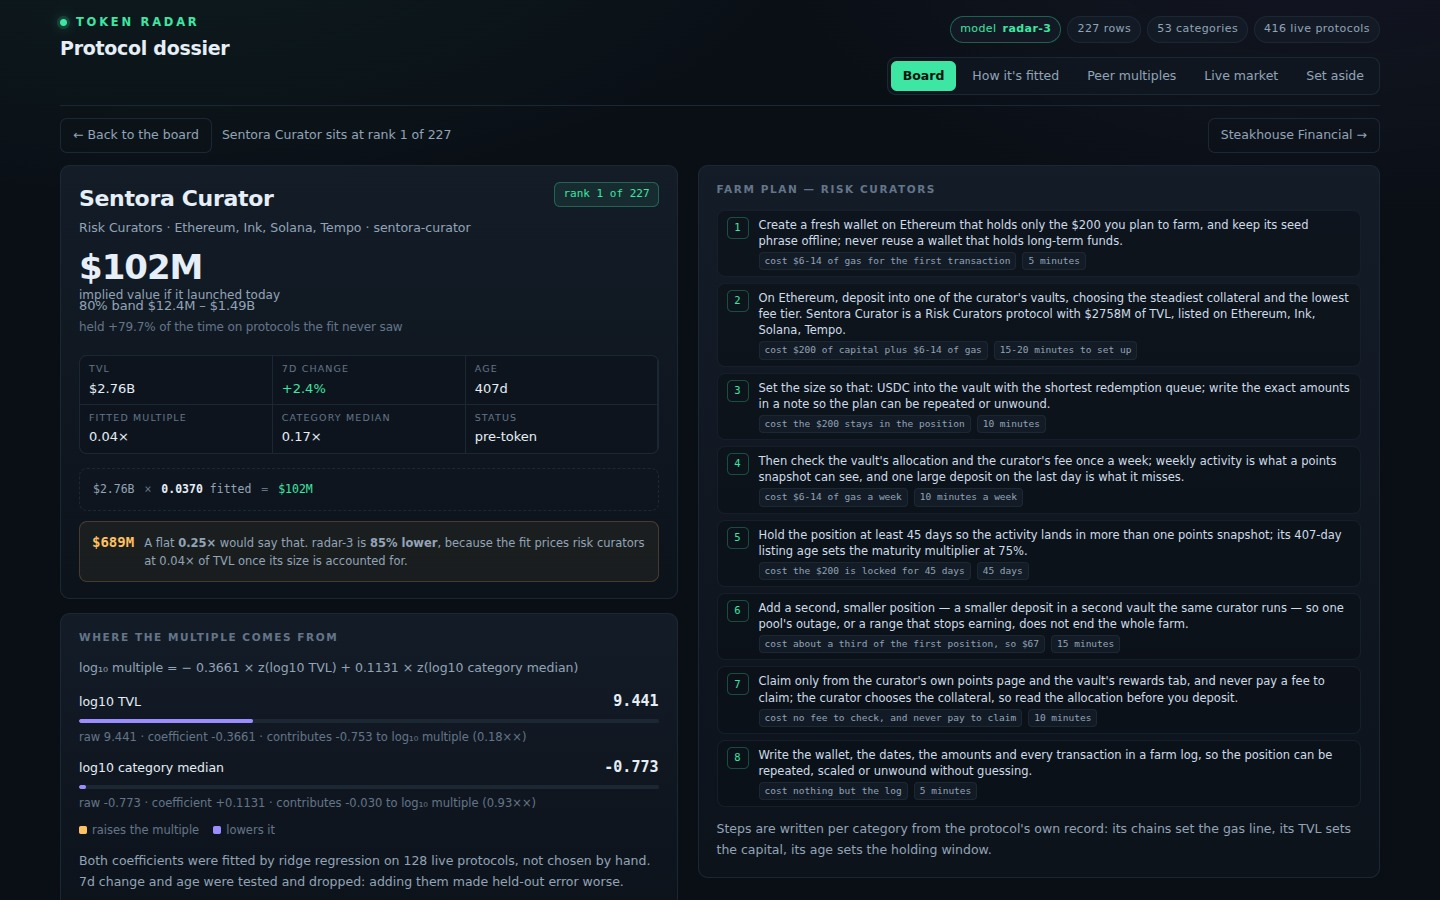
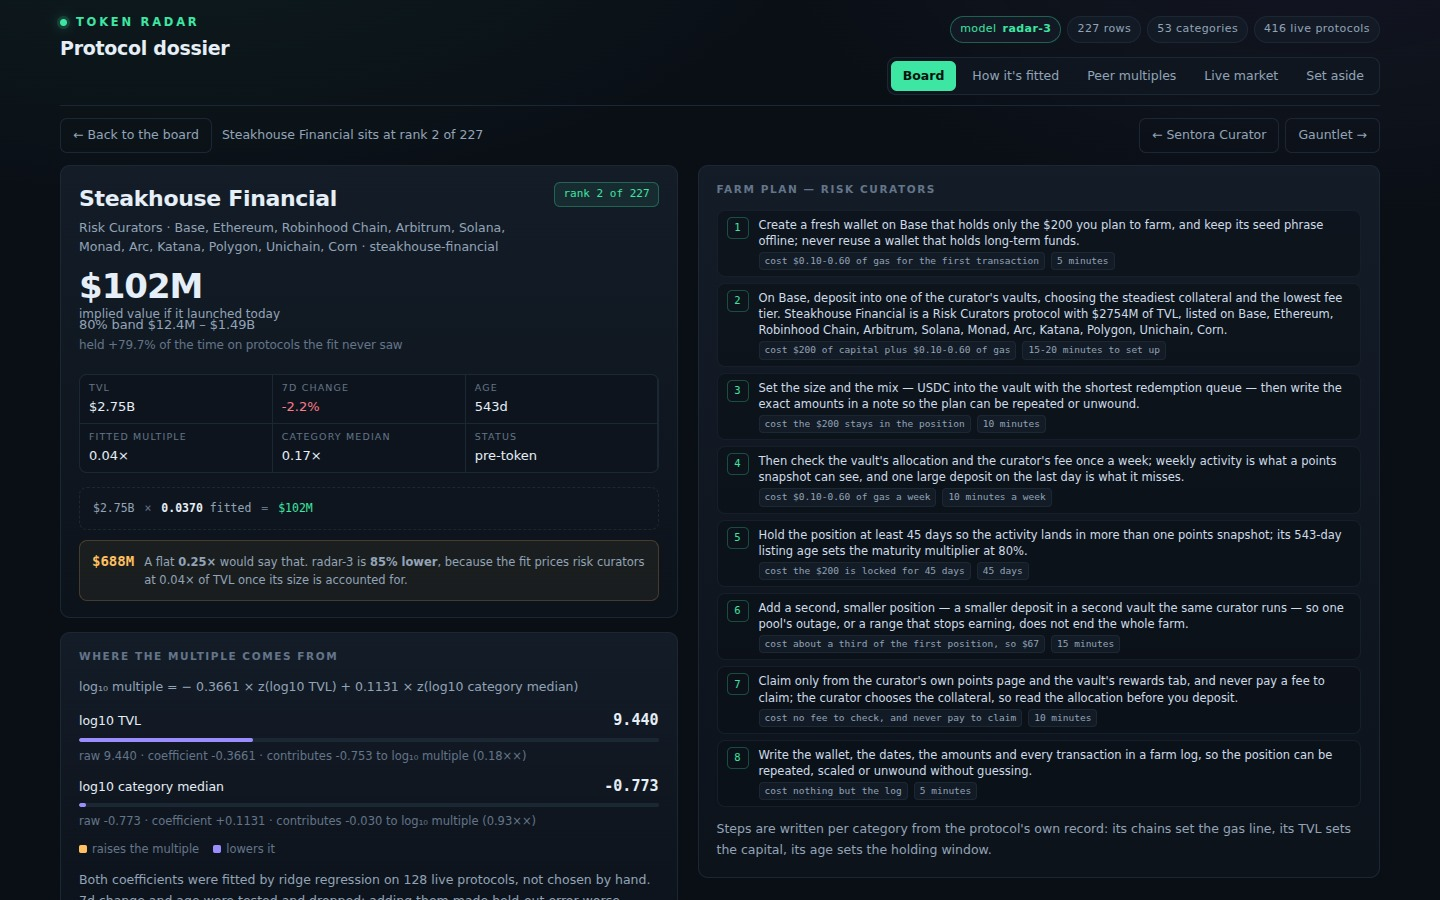
Farm plan: repair the sizing step so it reads as a sentence
Step 3 of every farm plan rendered as 'Set the size so that: USDC into the
vault ...' - a broken clause on all 227 rows. The mix is a noun phrase, so it
now sits in an appositive: 'Set the size and the mix - ... - then write the
exact amounts in a note'. Valuation, ranking and every other step are
untouched; detail.jpg re-rendered to match.

diff --git a/lib/model.ts b/lib/model.ts
@@ -1055,7 +1055,7 @@ export function farmSteps(p: SnapshotProtocol, age: number | null): FarmStep[] {
       time: '15-20 minutes to set up',
     },
     {
-      text: `Set the size so that: ${plan.mix}; write the exact amounts in a note so the plan can be repeated or unwound.`,
+      text: `Set the size and the mix — ${plan.mix} — then write the exact amounts in a note so the plan can be repeated or unwound.`,
       cost: `the $${capital} stays in the position`,
       time: '10 minutes',
     },
